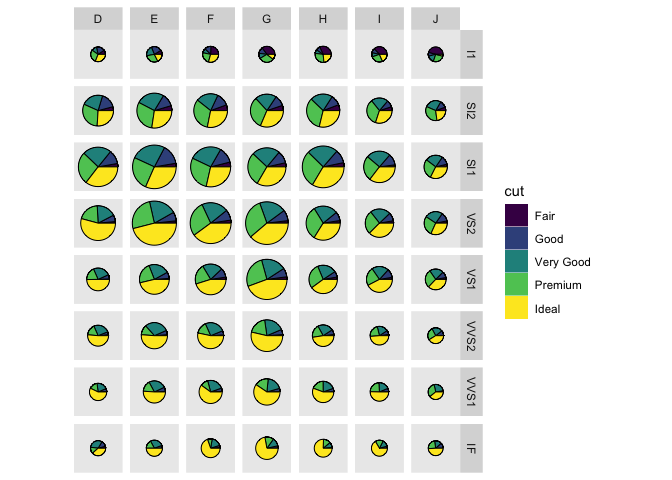
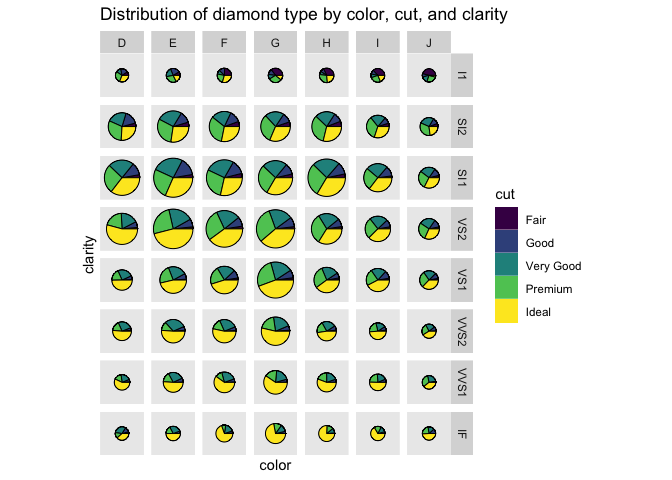
update readme

diff --git a/README.md b/README.md
@@ -32,7 +32,9 @@ ggplot2::diamonds %>%
   ggplot(aes(theta = n, fill = cut, radius = scales::rescale(total_n, c(.15, .45)))) +
   facet_grid(clarity ~ color) +
   geom_pie() + 
-  coord_fixed()
+  coord_fixed() +
+  labs(title = "Distribution of diamond type by color, cut, and clarity",
+       y = "clarity", x = "color")
 ```
 
 <img src="man/figures/README-unnamed-chunk-2-2.png" width="100%" />
